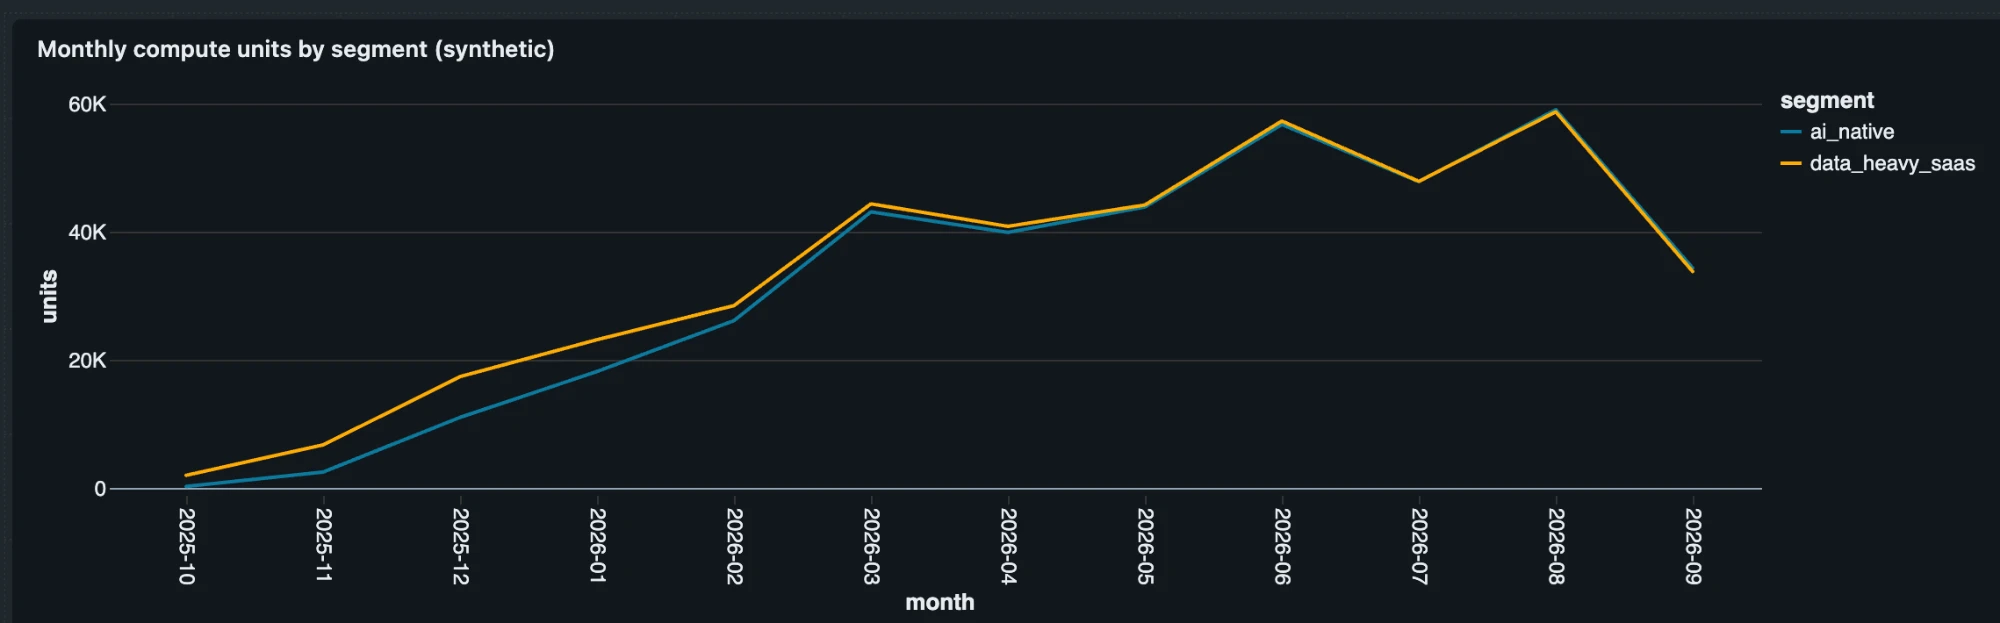
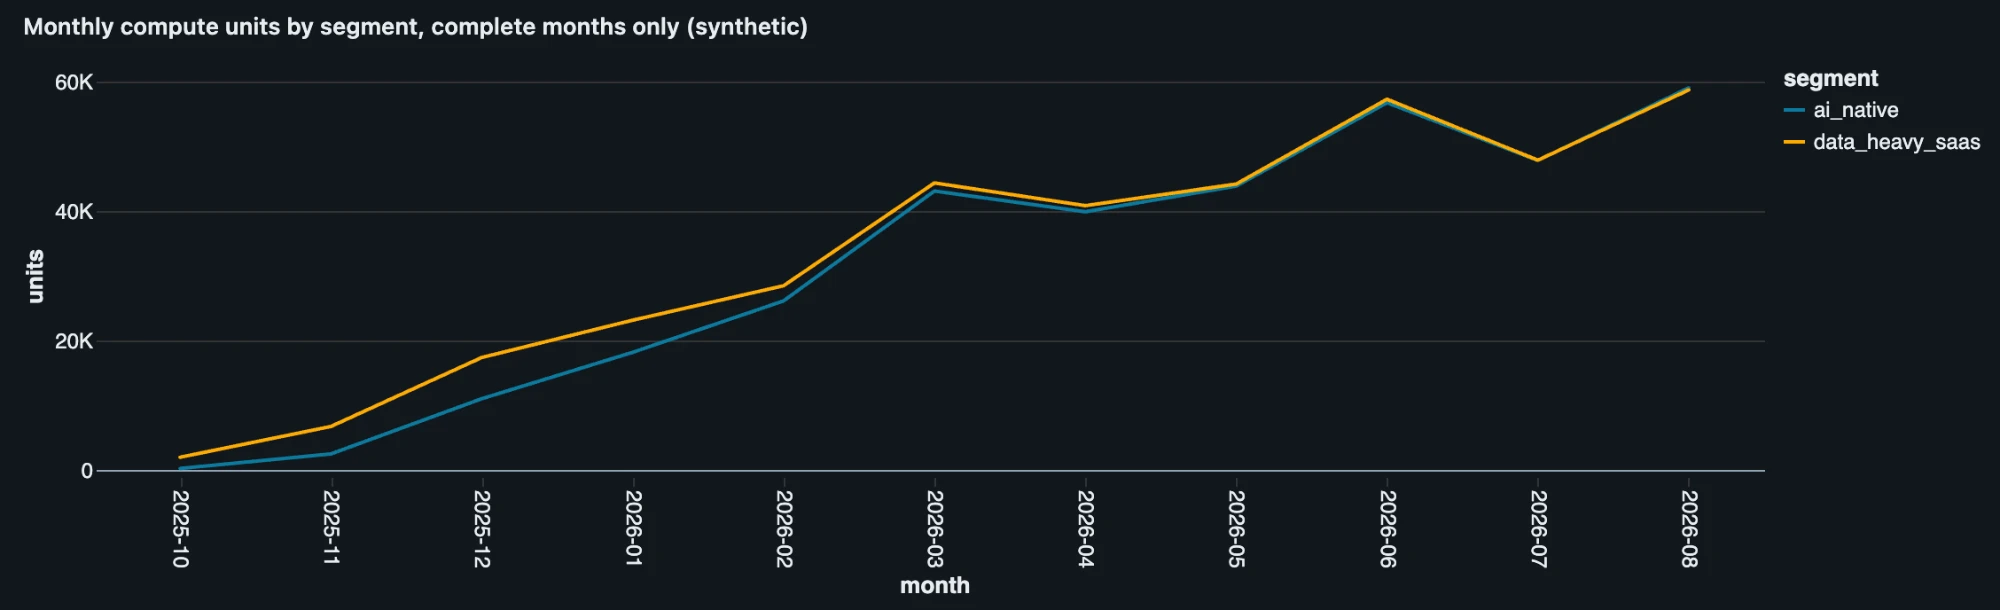
Update trend screenshot to complete months only

diff --git a/digital-natives-kit/README.md b/digital-natives-kit/README.md
@@ -57,7 +57,7 @@ python3 -m unittest discover digital-natives-kit/tests
 ![Average days to first production workload](docs/img/days-to-production.png)
 ![Accounts needing action](docs/img/attention-table.png)
 
-How to read these: all data is synthetic. The two segments have nearly identical consumption and time to production because the generator gives them the same pattern mix and similar scale, so do not read segment differences, or the lack of them, as findings. The trend screenshot may include the last, partial month (data ends mid-September), which shows a drop that is not a real decline. The dashboard script now leaves that month out.
+How to read these: all data is synthetic. The two segments have nearly identical consumption and time to production because the generator gives them the same pattern mix and similar scale, so do not read segment differences, or the lack of them, as findings. The trend chart leaves out the last month, because the data ends mid-September and a partial month would show a false drop.
 
 ## Check against the hidden patterns
 
